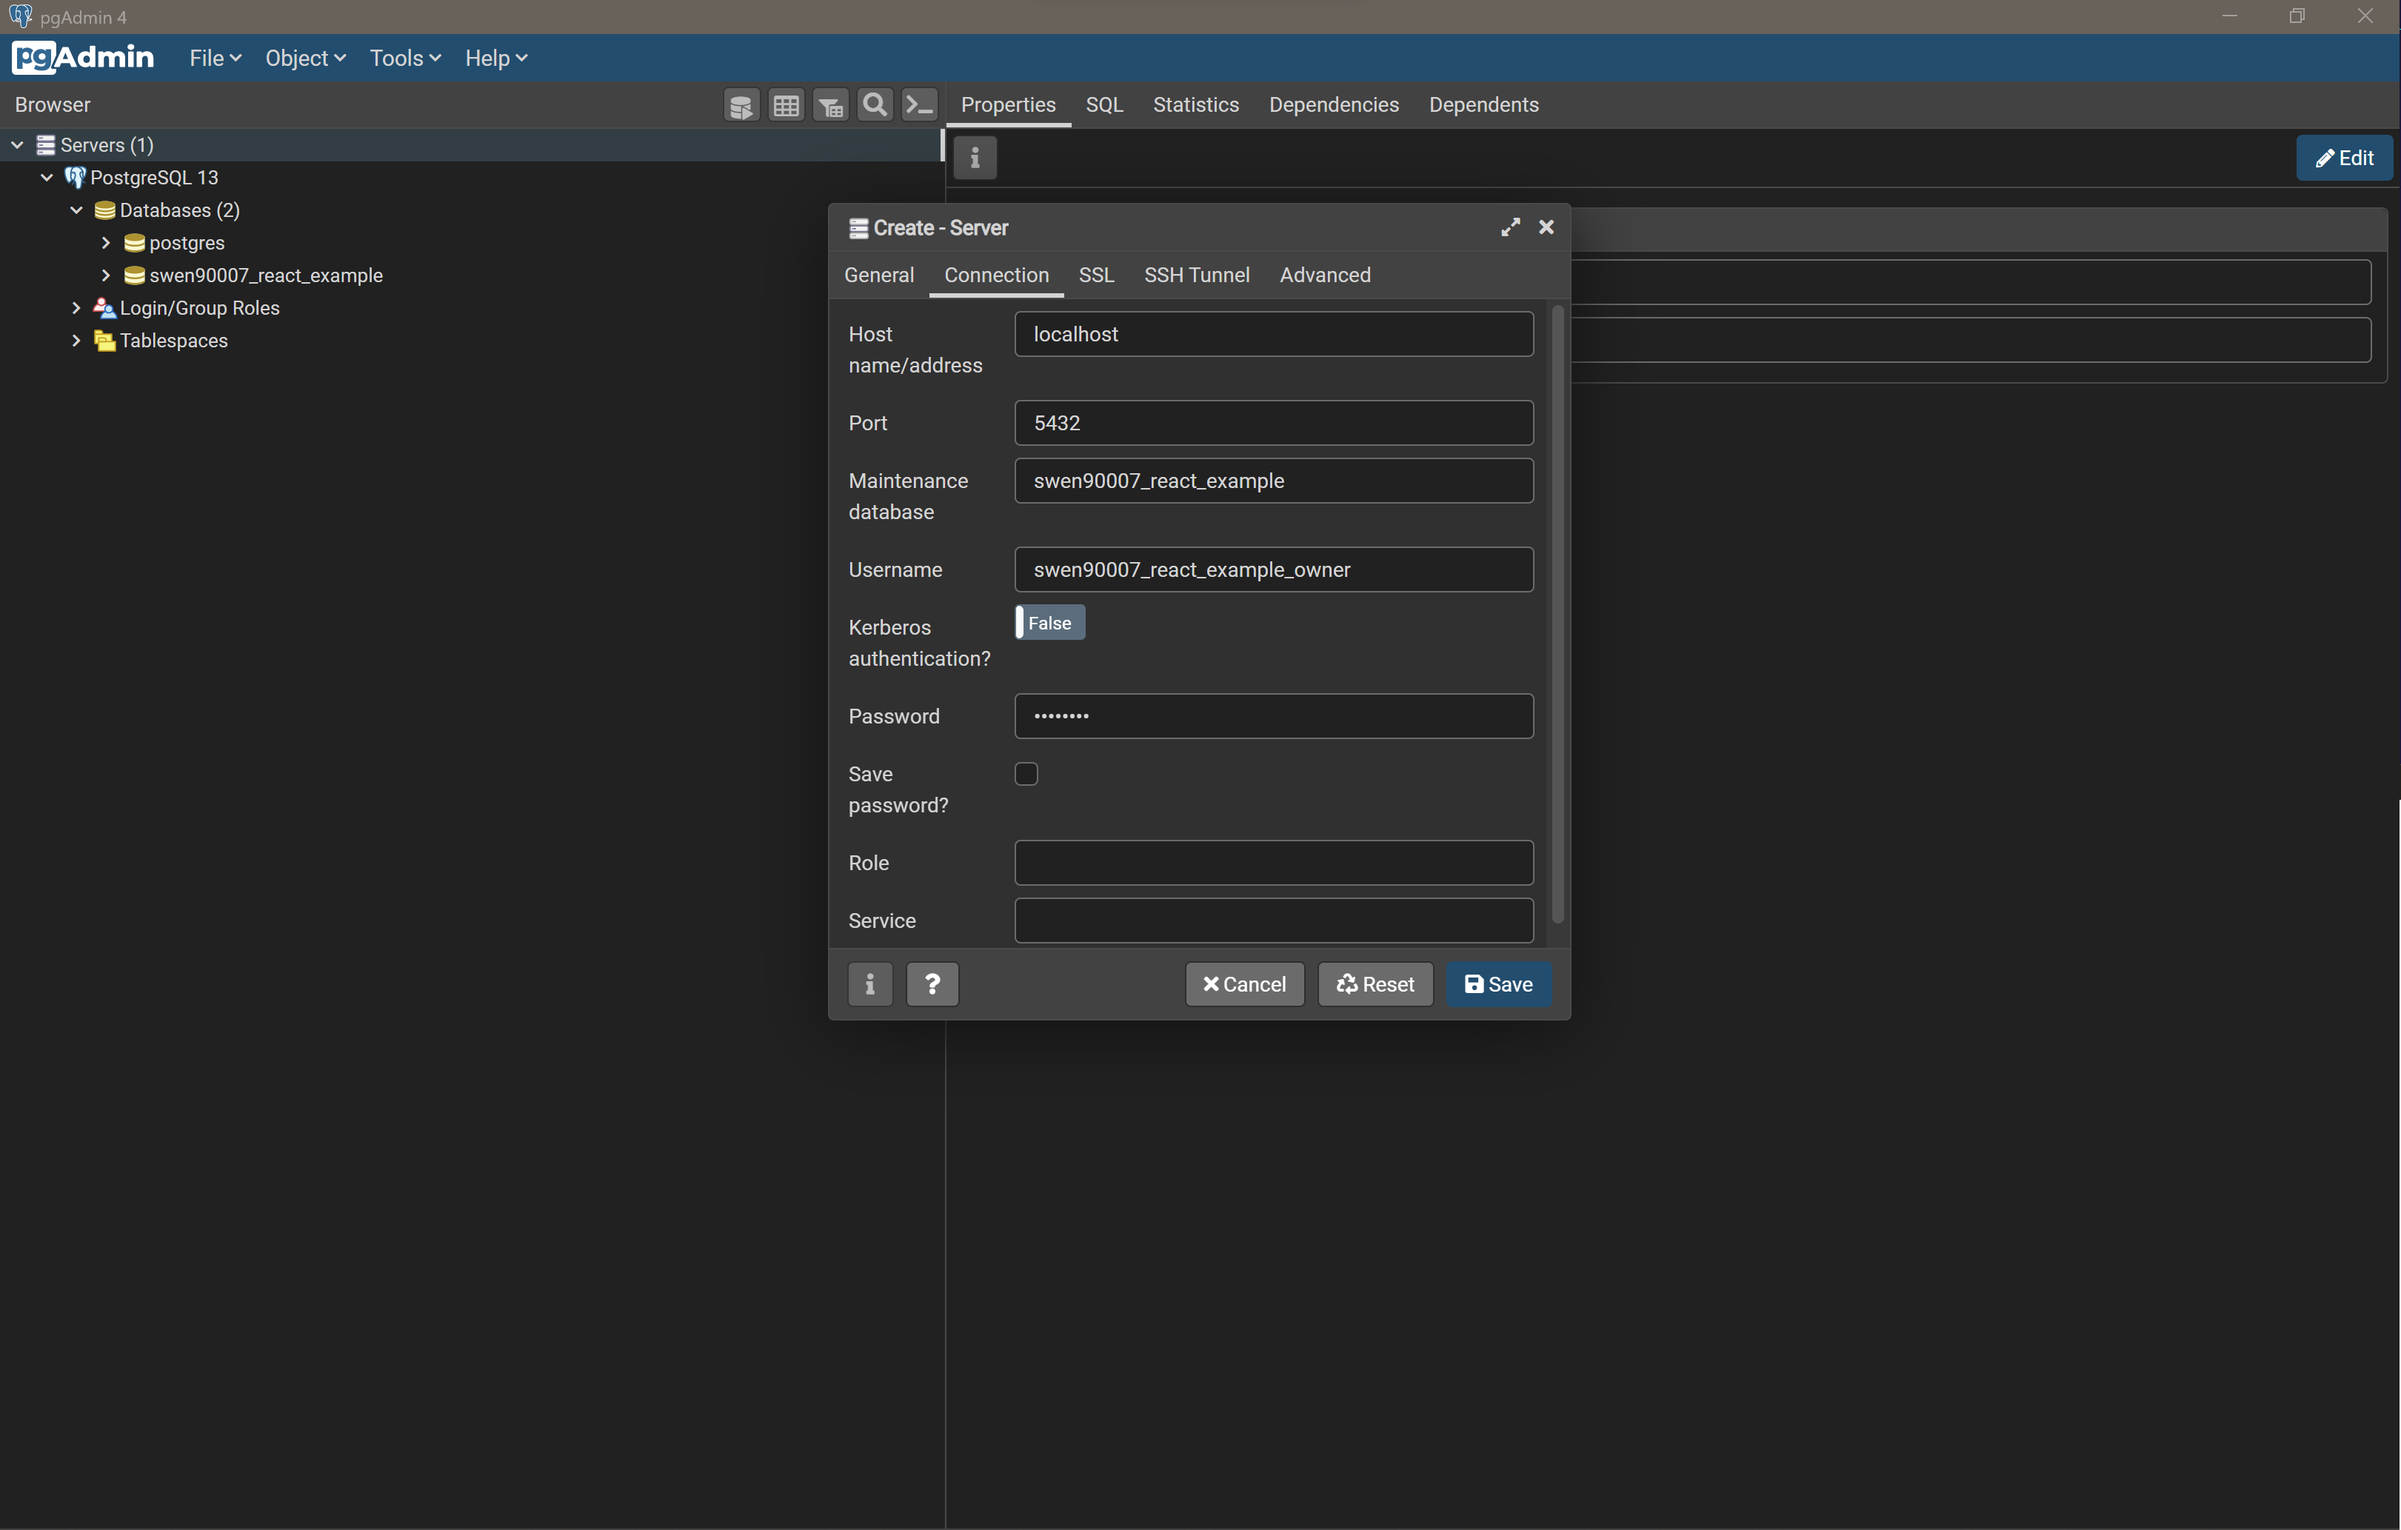
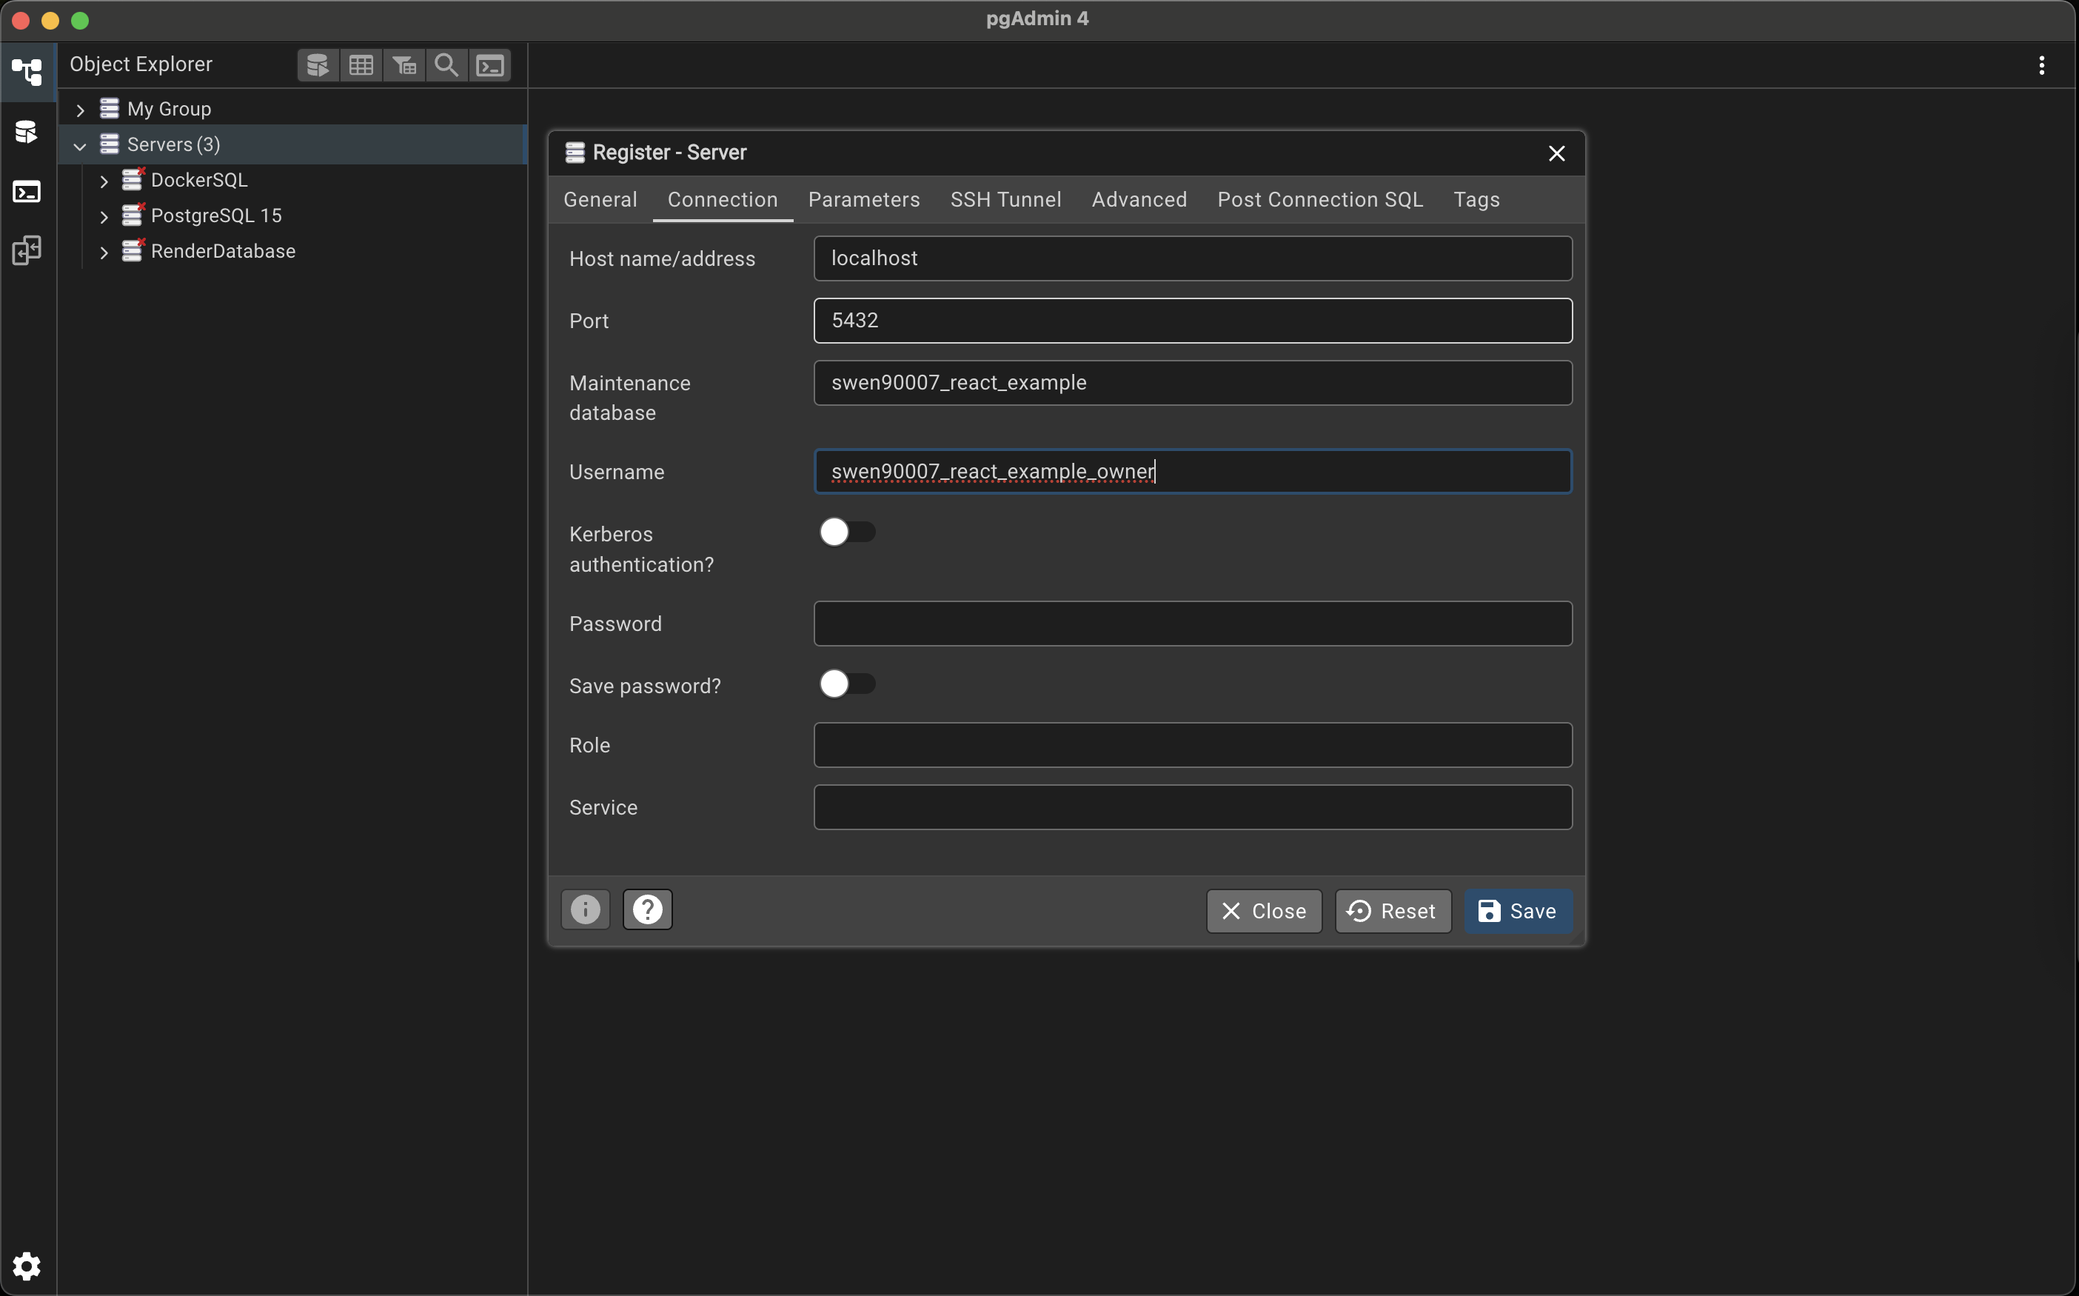
change the screenshots to Register > Server

Changed region(s): [[0.0, 0.0, 1.0, 1.0], [0.4338, 0.4629, 0.4647, 0.4937], [0.0, 0.9566, 0.031, 0.9874]]

diff --git a/react-example/swen90007-react-example-primer-milestone-0.md b/react-example/swen90007-react-example-primer-milestone-0.md
@@ -178,7 +178,7 @@ Select *Save* and notice that the new database is available under *Databases*.
 
 ![PostgreSQL Database Created](resources/milestone-0/postgres-database-created.png)
 
-Let's take a moment to verify that our new user and database work as required. Right click on *Servers* and select *Create* > *Server...*.
+Let's take a moment to verify that our new user and database work as required. Right click on *Servers* and select *Register* > *Server...*.
 
 ![Create PostgreSQL Server](resources/milestone-0/create-postgres-server.png)
 
